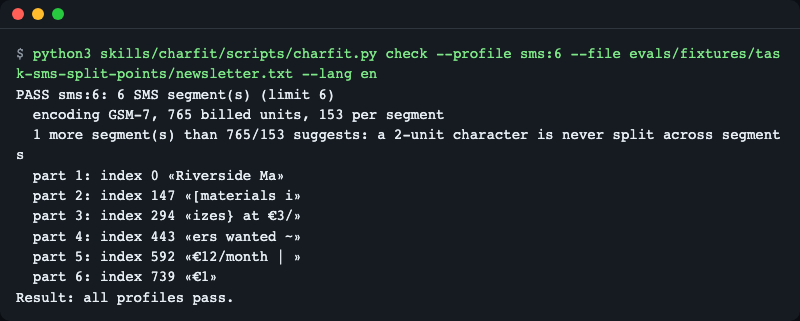
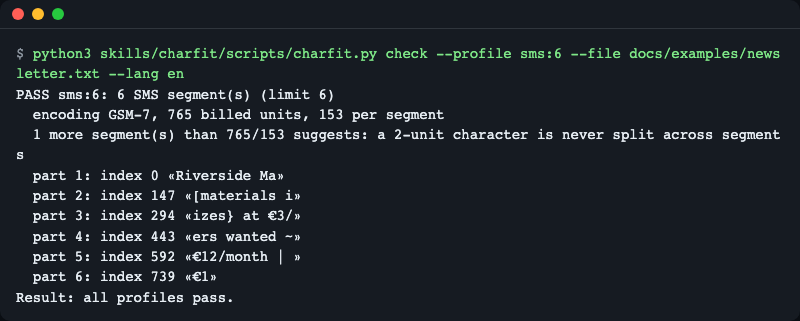
docs(readme): update evaluation table and example paths
Table shows the latest measurement; the sample file moved to
docs/examples.

Changed region(s): [[0.0, 0.2181, 0.4688, 0.2492], [0.7812, 0.1558, 0.9688, 0.1869]]

diff --git a/README.ko.md b/README.ko.md
@@ -57,7 +57,7 @@ python3 skills/charfit/scripts/charfit.py count "It’s ready…"
 - "Make this promo text GSM-7 safe; replace the smart quotes and ellipsis if needed: ..."
 - "이 문구 문자로 보내면 몇 건으로 나가? 이모지 들어가도 괜찮아?"
 
-템플릿 파일이 있으면 파일 이름을 함께 주세요. 에이전트가 묶음 모드로 실행합니다. 아래 명령은 저장소 루트에서 실행하고, 샘플 파일은 `evals/fixtures/` 에 있습니다.
+템플릿 파일이 있으면 파일 이름을 함께 주세요. 에이전트가 묶음 모드로 실행합니다. 아래 명령은 저장소 루트에서 실행하고, 샘플 파일은 `evals/fixtures/` 와 `docs/examples/` 에 있습니다.
 
 **1. 템플릿 묶음** (`check --jsonl`; 종료 코드 0 = 모든 항목 통과, 1 = 통과 못 한 항목이 있음):
 
@@ -86,7 +86,7 @@ $ python3 skills/charfit/scripts/charfit.py check --profile sms --jsonl evals/fi
 **2. 조각은 어디서 시작하나요?** (`check --profile sms:6` 은 최대 6건까지 허용):
 
 ```
-$ python3 skills/charfit/scripts/charfit.py check --profile sms:6 --file evals/fixtures/task-sms-split-points/newsletter.txt --lang ko
+$ python3 skills/charfit/scripts/charfit.py check --profile sms:6 --file docs/examples/newsletter.txt --lang ko
 통과 sms:6: SMS 건수 6 (한도 6)
   인코딩 GSM-7, 과금 765칸, 건당 153칸
   765/153 나눗셈보다 1건 많음: 2칸 문자는 두 건에 걸쳐 나뉘지 않는다
@@ -225,12 +225,12 @@ $ python3 skills/charfit/scripts/charfit.py check --profile sms --json "Tu códi
 | 필요할 때 불림 | 12/12 |
 | 필요 없을 때 안 불림 | 12/12 |
 | 스킬로 푼 작업 | 5/5 |
-| 스킬 없이 푼 작업(기준선) | 2/5 |
-| 평균 점수 차이(Δ) | +0.28 |
+| 스킬 없이 푼 작업(기준선) | 1/5 |
+| 평균 점수 차이(Δ) | +0.42 |
 | 가짜 스크립트를 잡아낸 비율 | 5/5 |
 | Codex CLI | 미검증 |
 
-Claude Code 2.1.322 · sonnet · 케이스마다 3회 · 2026-11-24 측정 · codex-cli 0.154.0
+Claude Code 2.1.332 · sonnet · 케이스마다 3회 · 2026-11-27 측정 · codex-cli 0.154.0
 <!-- skill-eval:end -->
 
 ## 동작 원리
@@ -283,7 +283,7 @@ flowchart LR
 uv sync && uv run pytest
 ```
 
-`evals/` 폴더에는 발동 케이스 12개, 미발동 케이스 12개(근접 8개), 작업 케이스 5개와 픽스처(위에서 쓴 파일)가 있습니다. `claude plugin eval` 로 돌립니다(Claude Code 문서 참고).
+`evals/` 폴더에는 발동 케이스 12개, 미발동 케이스 12개(근접 8개), 작업 케이스 5개와 픽스처(케이스가 쓰는 파일)가 있습니다. `claude plugin eval` 로 돌립니다(Claude Code 문서 참고).
 
 ## 출처
 

diff --git a/README.md b/README.md
@@ -57,7 +57,7 @@ Ask your agent in plain language. These requests are from the skill's trigger ev
 - "Make this promo text GSM-7 safe; replace the smart quotes and ellipsis if needed: ..."
 - "이 문구 문자로 보내면 몇 건으로 나가? 이모지 들어가도 괜찮아?" (How many messages will this go out as? Is an emoji OK?)
 
-For a file of templates, add the file name and the agent runs the batch mode. The commands below run from the repository root; the sample files are in `evals/fixtures/`.
+For a file of templates, add the file name and the agent runs the batch mode. The commands below run from the repository root; the sample files are in `evals/fixtures/` and `docs/examples/`.
 
 **1. A batch of templates** (`check --jsonl`; exit code 0 = every item passes, 1 = at least one does not):
 
@@ -82,7 +82,7 @@ Total SMS: 41 segments billed; 12 GSM-7 items, 12 UCS-2 items, 14 items with 2+ 
 **2. Where do the segments start?** (`check --profile sms:6` allows up to 6 segments):
 
 ```
-$ python3 skills/charfit/scripts/charfit.py check --profile sms:6 --file evals/fixtures/task-sms-split-points/newsletter.txt --lang en
+$ python3 skills/charfit/scripts/charfit.py check --profile sms:6 --file docs/examples/newsletter.txt --lang en
 PASS sms:6: 6 SMS segment(s) (limit 6)
   encoding GSM-7, 765 billed units, 153 per segment
   1 more segment(s) than 765/153 suggests: a 2-unit character is never split across segments
@@ -221,12 +221,12 @@ Exit codes: `0` every checked item passes, `1` a limit is exceeded (or, for `fix
 | Triggers when it should | 12/12 |
 | Stays quiet when it should not | 12/12 |
 | Tasks solved with the skill | 5/5 |
-| Tasks solved without it (baseline) | 2/5 |
-| Mean score gain (Δ) | +0.28 |
+| Tasks solved without it (baseline) | 1/5 |
+| Mean score gain (Δ) | +0.42 |
 | Tasks that catch a broken script | 5/5 |
 | Codex CLI | not verified |
 
-Measured 2026-11-24 with Claude Code 2.1.322 · sonnet · 3 runs per case · codex-cli 0.154.0
+Measured 2026-11-27 with Claude Code 2.1.332 · sonnet · 3 runs per case · codex-cli 0.154.0
 <!-- skill-eval:end -->
 
 ## How it works
@@ -279,7 +279,7 @@ The full rules are in [`skills/charfit/references/rules.md`](skills/charfit/refe
 uv sync && uv run pytest
 ```
 
-The `evals/` folder holds 12 trigger cases, 12 not-triggered cases (8 near misses) and 5 task cases with fixtures (the files used above). Run them with `claude plugin eval` (see the Claude Code documentation).
+The `evals/` folder holds 12 trigger cases, 12 not-triggered cases (8 near misses) and 5 task cases with fixtures (the files the cases run against). Run them with `claude plugin eval` (see the Claude Code documentation).
 
 ## Sources
 
